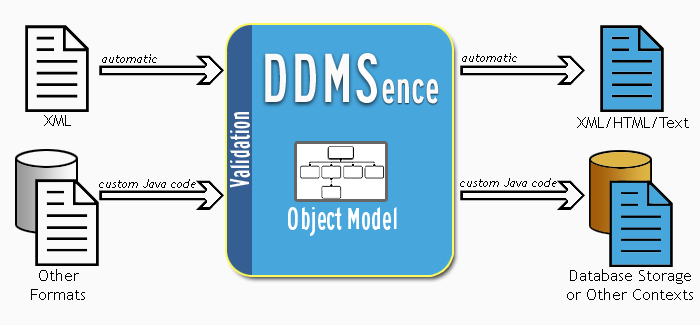
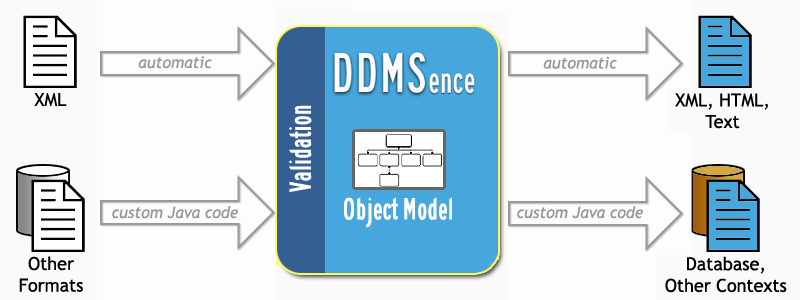
Various documentation updates.

diff --git a/conf/javadoc-overview.html b/conf/javadoc-overview.html
@@ -21,10 +21,12 @@
 -->
 <body>
   
-	<p>
-	DDMSence (pronounced "dee-dee-em-Essence") is an open source Java API which supports the <a target="_top" href="http://metadata.dod.mil/mdr/irs/DDMS/">DoD Discovery Metadata Specification</a> (DDMS). 
-	Using the XOM and Xerces parsing libraries, DDMSence can convert an XML DDMS Resource record into a Java object model, or ease the conversion of existing Java data into valid, well-formed XML, HTML, and Text records. 
-	DDMSence also performs logical validation of rules which are listed in the DDMS documentation but not coded into the DDMS schema.
+  	<p>
+	DDMSence (pronounced "<i>dee-dee-em-Essence</i>") is an open source Java API which supports the 
+	<a href="http://metadata.dod.mil/mdr/irs/DDMS/" target="_new">DoD Discovery Metadata Specification (DDMS)</a>. 
+	Using XOM and the Xerces Java parser, DDMSence can transform XML DDMS Resource records into a Java object model, 
+	allowing them to be manipulated or traversed within the context of a Java environment. 
+	DDMSence also performs logical validation of rules which are not coded into the DDMS schema (such as the the validation of longitude/latitude values).
 	</p>
 
 	<p>DDMSence is published under the <a target="_top" href="http://ddmsence.urizone.net/license.jsp">GNU Lesser General Public License</a> (LGPL). The project's home page can be found at <a target="_top" href="http://ddmsence.urizone.net/">http://ddmsence.urizone.net/</a>.</p>

diff --git a/data/web/shared/ddmsence.css b/data/web/shared/ddmsence.css
@@ -98,6 +98,11 @@ h5 {
 #header {
 	height: 90px;
 }
+img.bordered {
+	border-color: #bdc3c5;
+	border-style: solid;
+	border-width: 1px;
+}
 #menu {
 	height: 22px;
 	margin: 0px auto;
